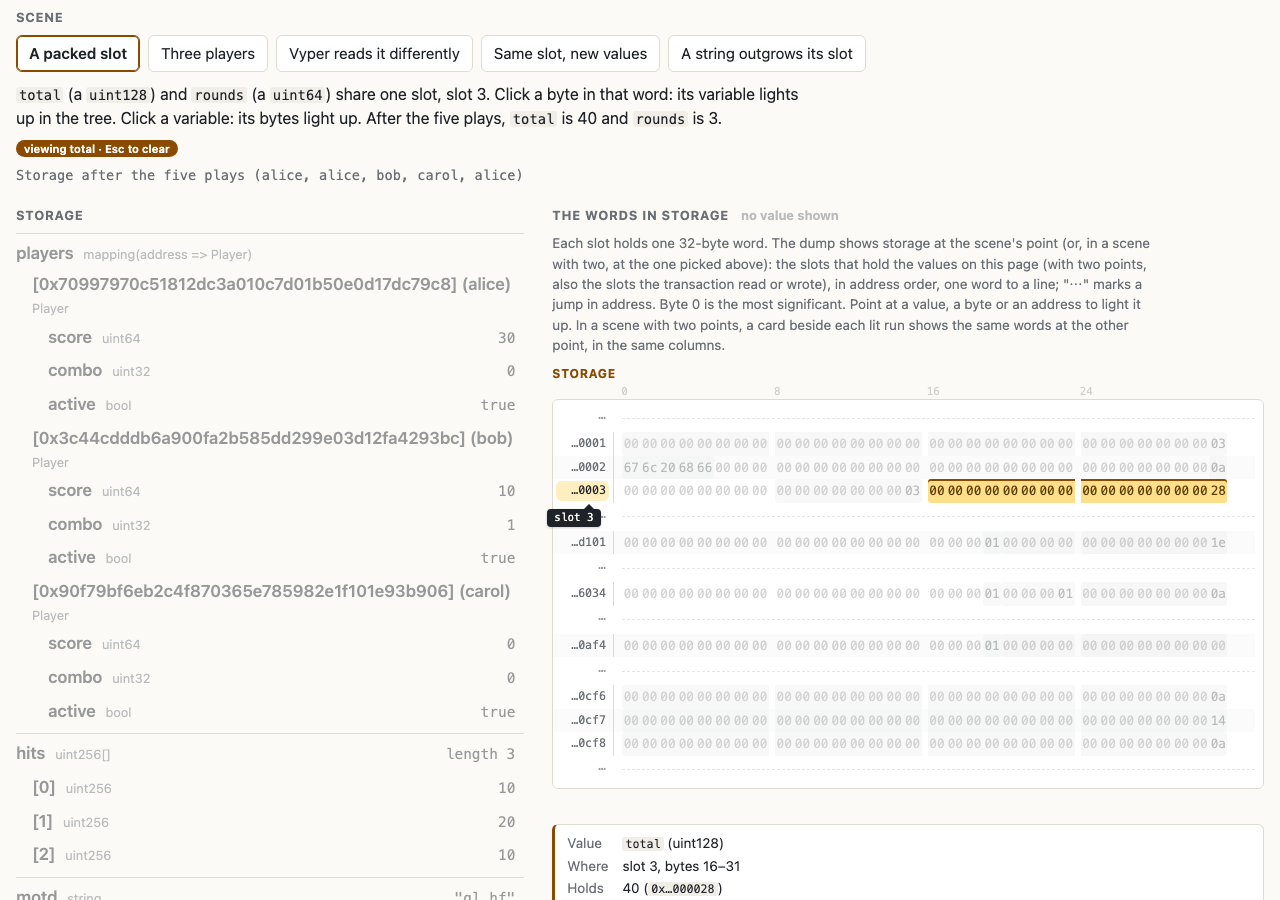
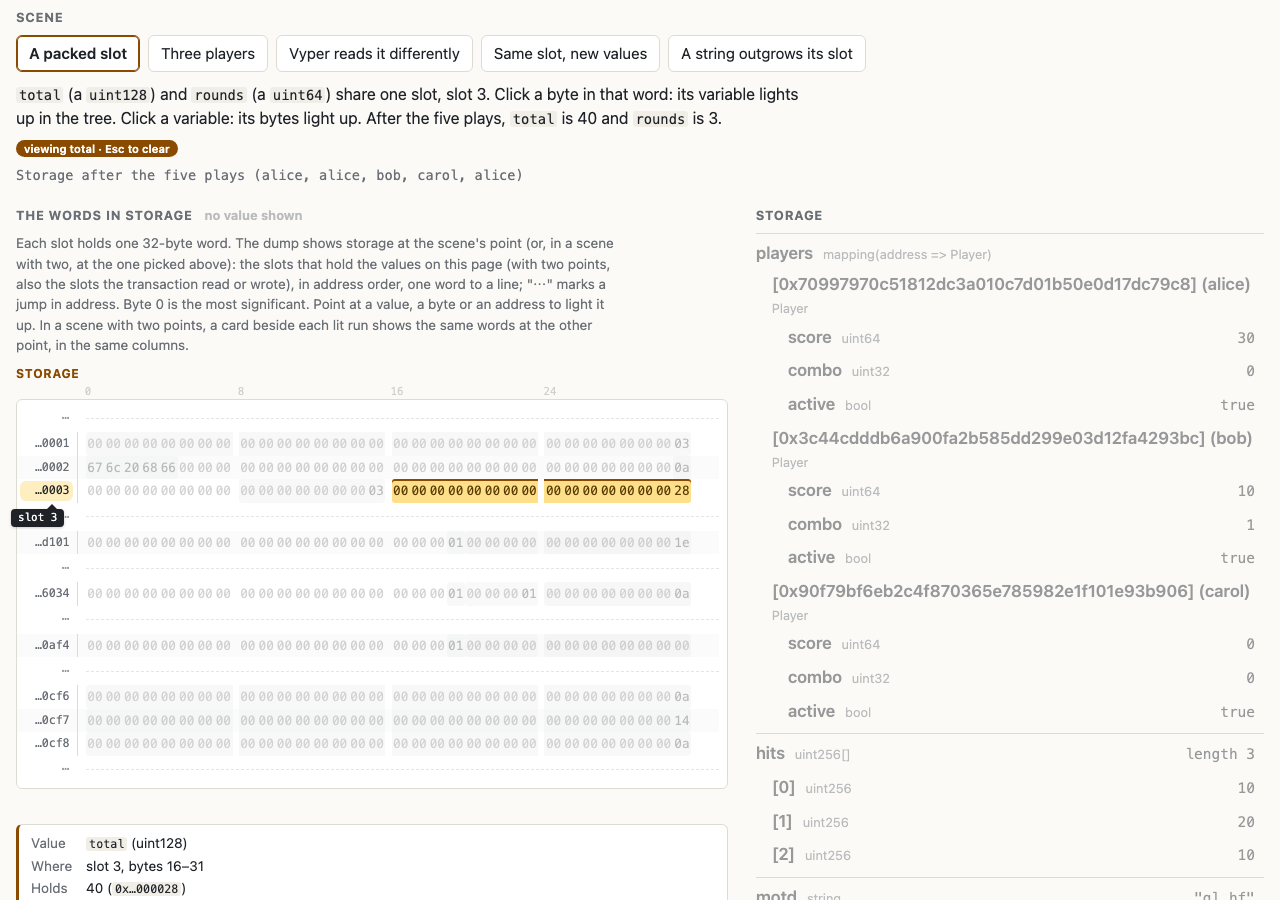
Inspector: the bytes on the left, the tree and derivation on the right

diff --git a/demos/inspector/style.css b/demos/inspector/style.css
@@ -12,19 +12,19 @@
 main { max-width: 1440px; }
 
 /* Narrow: tree, "How this was found", words, source, one under the
-   other. Wide: the tree, the derivation and the source on the left, the
-   words beside them, held in view. */
+   other. Wide: the words (the raw bytes) on the left, held in view; the
+   tree, the derivation and the source beside them, on the right. */
 .cols { display: grid; grid-template-columns: minmax(0, 1fr); gap: 0 28px; }
 @media (min-width: 1100px) {
   .cols {
-    grid-template-columns: minmax(0, 5fr) minmax(0, 7fr);
+    grid-template-columns: minmax(0, 7fr) minmax(0, 5fr);
     grid-template-rows: auto auto 1fr;
   }
-  .storage { grid-column: 1; grid-row: 1; font-size: 1.05rem; }
-  .howbox { grid-column: 1; grid-row: 2; }
-  .source { grid-column: 1; grid-row: 3; }
+  .storage { grid-column: 2; grid-row: 1; font-size: 1.05rem; }
+  .howbox { grid-column: 2; grid-row: 2; }
+  .source { grid-column: 2; grid-row: 3; }
   .words {
-    grid-column: 2;
+    grid-column: 1;
     grid-row: 1 / span 3;
     position: sticky;
     top: 0;
